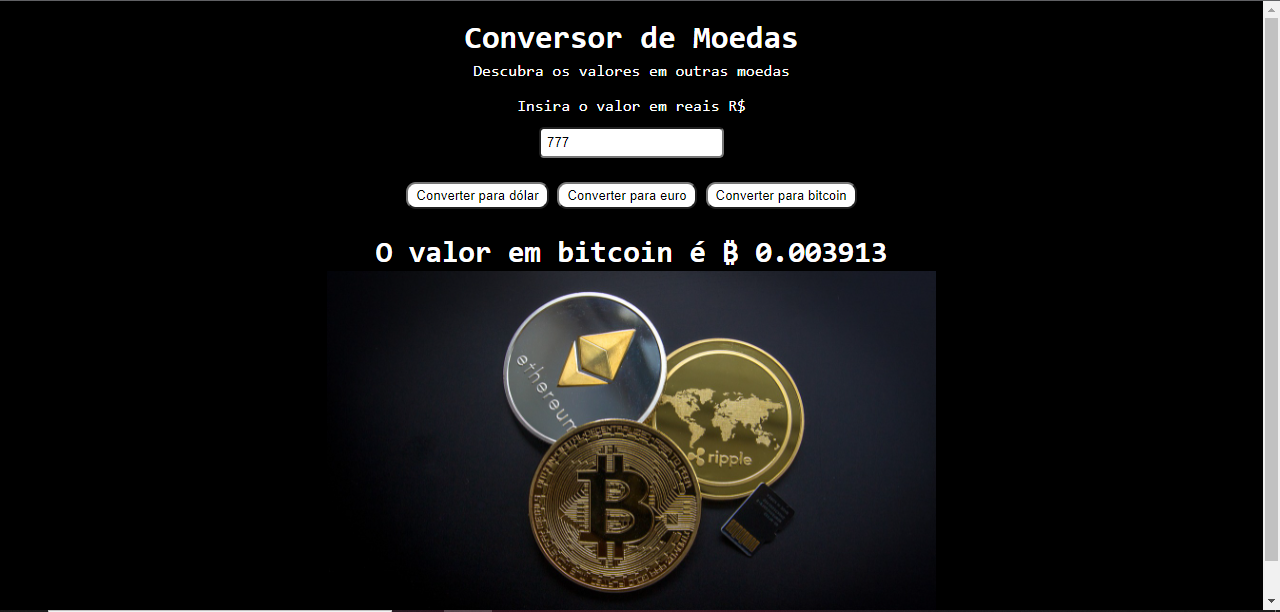
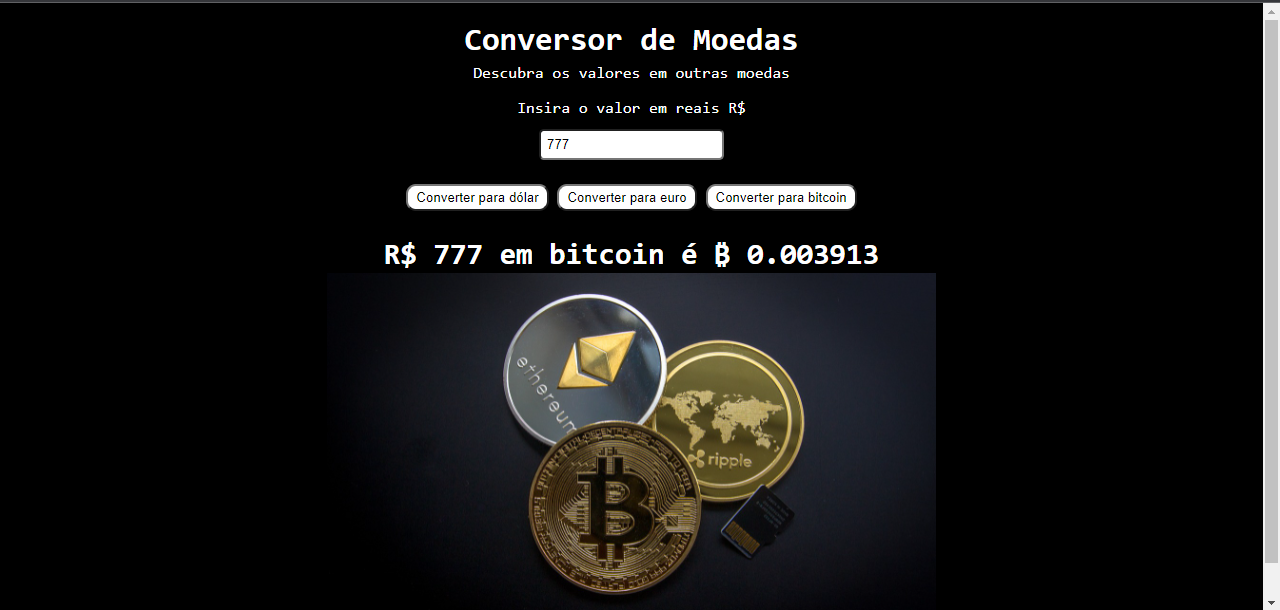
final

Changed region(s): [[0.0, 0.1557, 1.0, 1.0], [0.0, 0.0, 1.0, 0.1246], [0.375, 0.5295, 0.4062, 0.5607]]

diff --git a/script.js b/script.js
@@ -3,7 +3,7 @@ function ConverterDolar(){
     let valor = parseFloat(elemento.value);
     let dolar = (valor/5.13).toFixed(2);
     let conversao = document.getElementById("valorConvertido");
-    conversao.innerHTML = `O valor em dólar é US$ ${dolar}`;
+    conversao.innerHTML = `R$ ${valor} em dólar é US$ ${dolar}`;
 }
 
 function ConverterEuro(){
@@ -11,7 +11,7 @@ function ConverterEuro(){
     let valor = parseFloat(elemento.value);
     let euro = (valor/5.62).toFixed(2);
     let conversao = document.getElementById("valorConvertido");
-    conversao.innerHTML = `O valor em euro é € ${euro}`;
+    conversao.innerHTML = `R$ ${valor} em euro é € ${euro}`;
 }
 
 function ConverterBitcoin(){
@@ -19,5 +19,5 @@ function ConverterBitcoin(){
     let valor = parseFloat(elemento.value);
     let bitcoin = (valor/198555.49).toFixed(6);
     let conversao = document.getElementById("valorConvertido");
-    conversao.innerHTML = `O valor em bitcoin é ₿ ${bitcoin}`;
+    conversao.innerHTML = `R$ ${valor} em bitcoin é ₿ ${bitcoin}`;
 }

diff --git a/index.html b/index.html
@@ -12,7 +12,7 @@
         <h1>Conversor de Moedas</h1>
         <p>Descubra os valores em outras moedas</p>
         <label for="moeda">Insira o valor em reais R$</label><br>
-        <input type="number" id="valor" size="2" /><br>
+        <input type="number" id="valor" placeholder="R$" size="2" /><br>
         <button type="submit" onclick="ConverterDolar()">Converter para dólar</button>
         <button type="submit" onclick="ConverterEuro()">Converter para euro</button>
         <button type="submit" onclick="ConverterBitcoin()">Converter para bitcoin</button>
